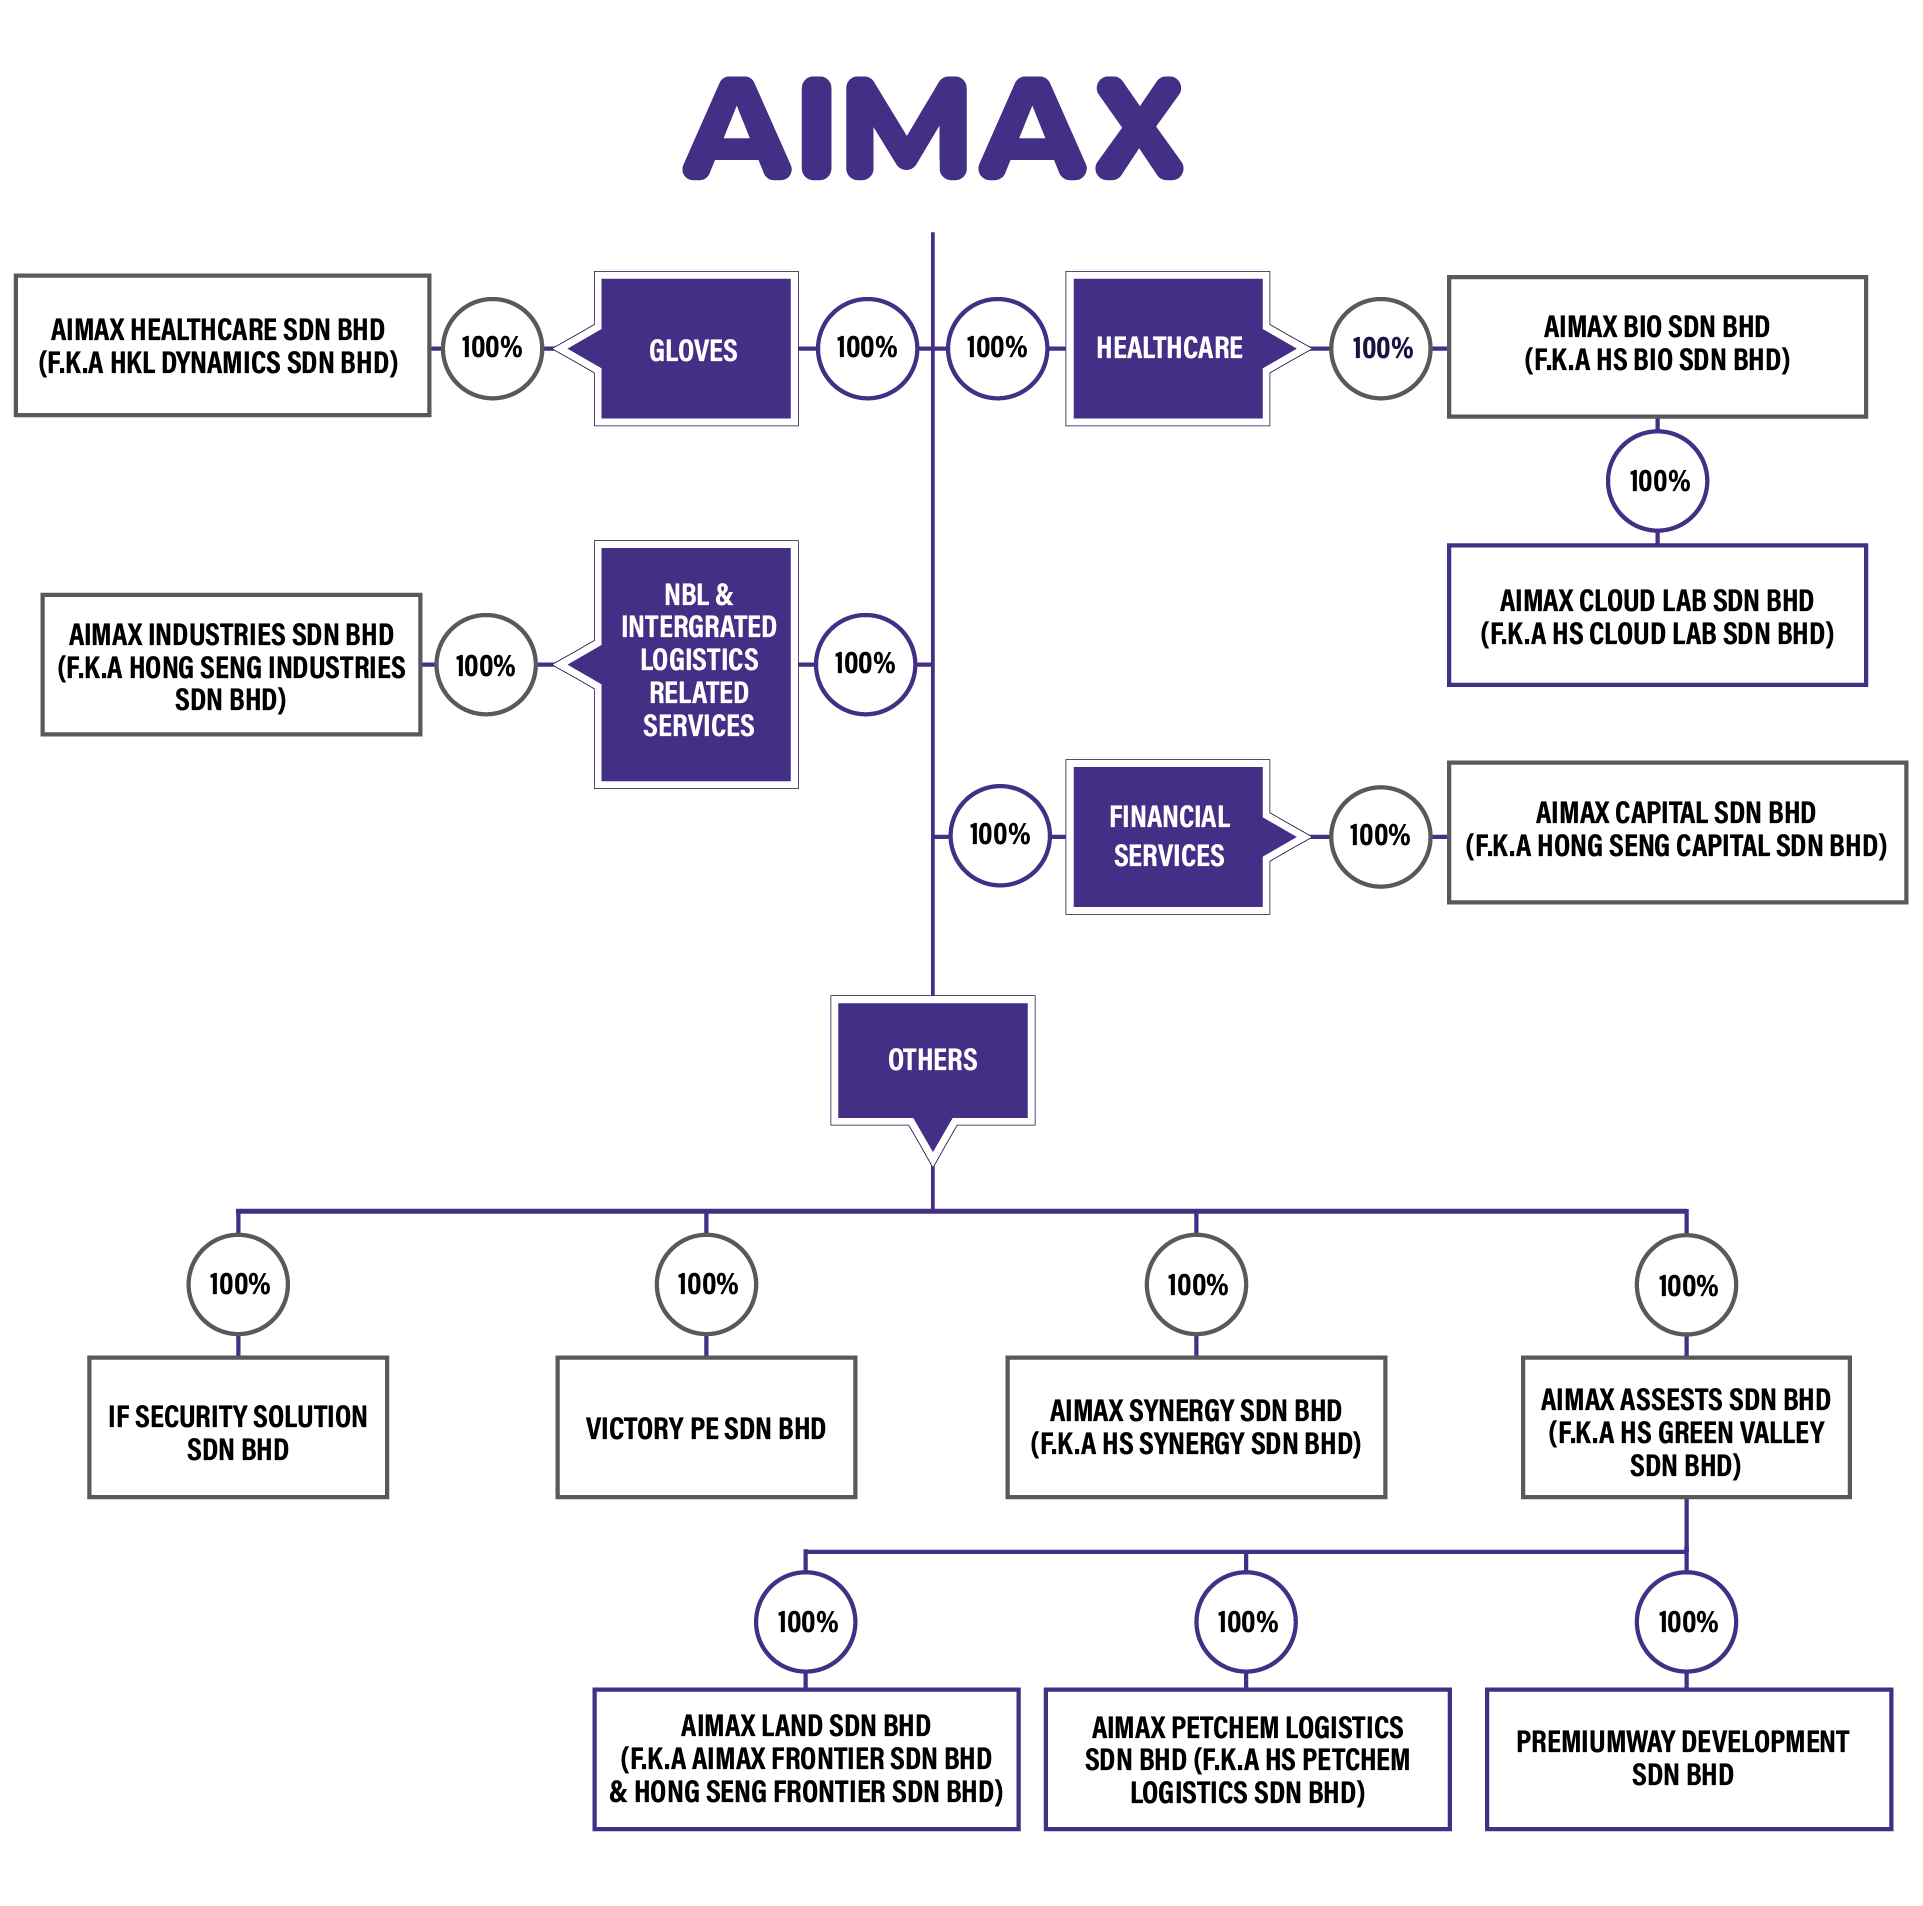
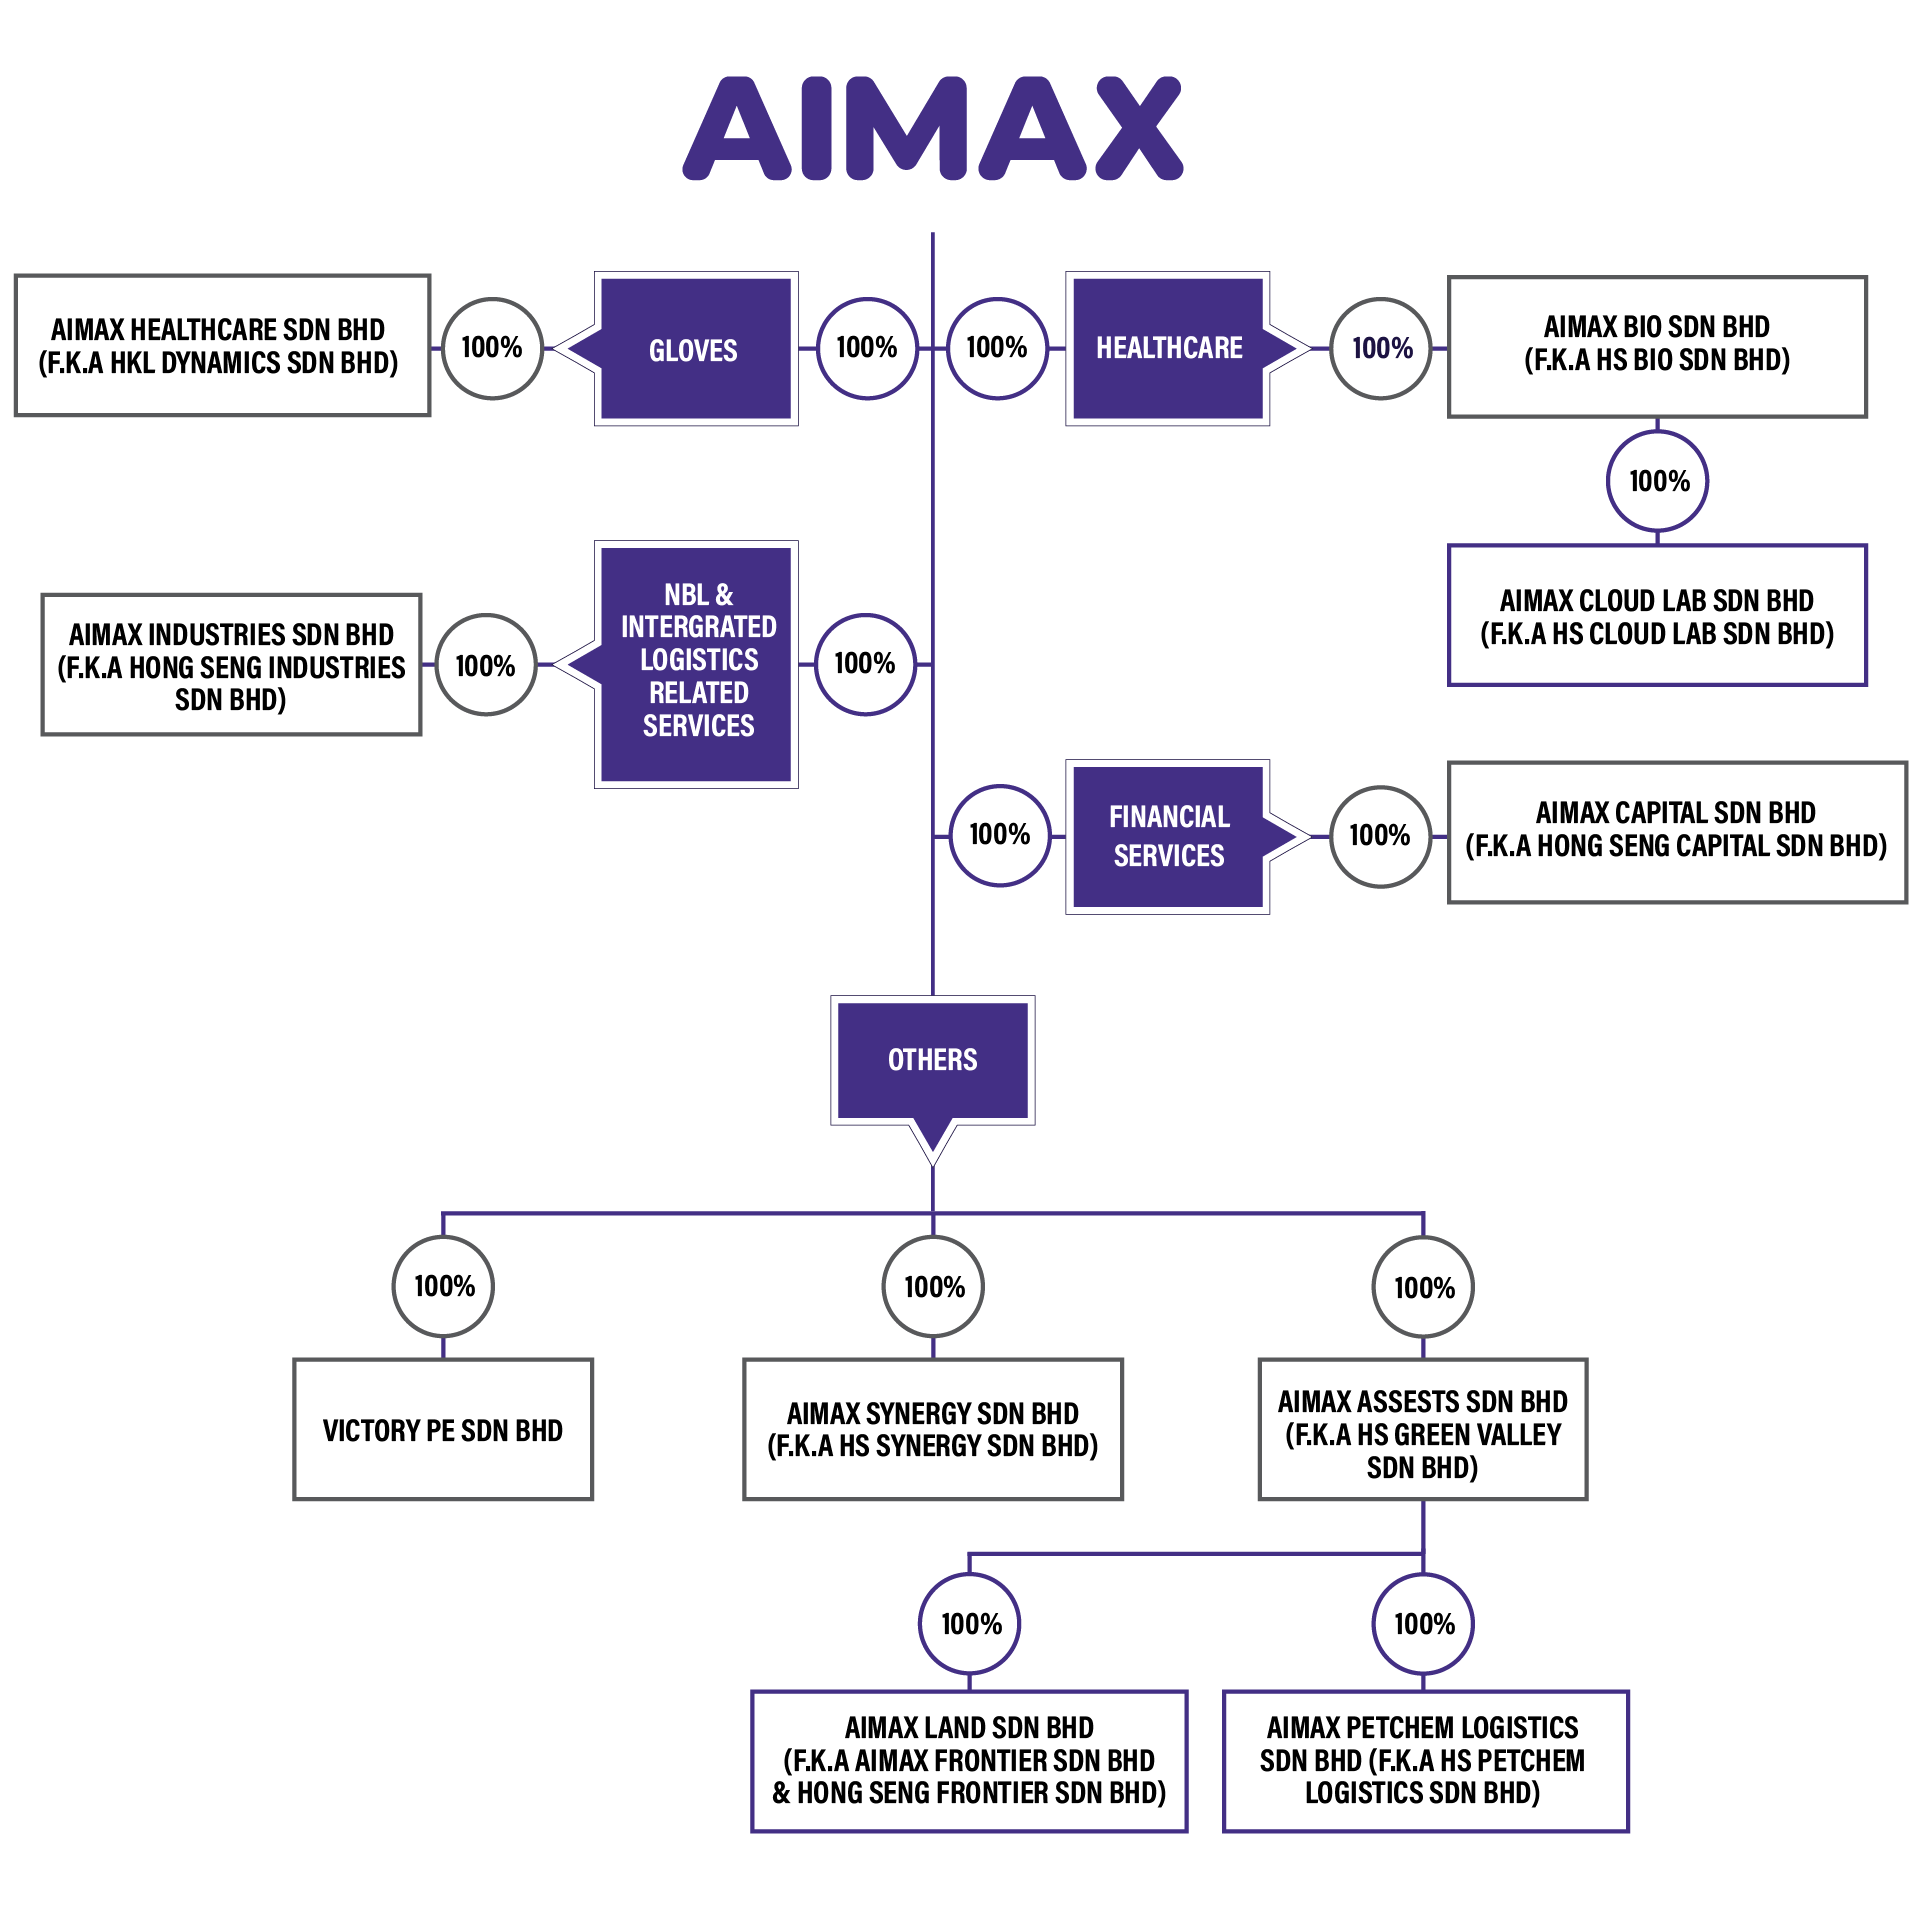
change corporate structure

Changed region(s): [[0.0312, 0.6191, 0.9672, 0.9596]]

diff --git a/src/app/home/home.component.ts b/src/app/home/home.component.ts
@@ -10,7 +10,7 @@ import { RouterLink } from '@angular/router';
 })
 export class HomeComponent {
   divisions = [
-    { slug: 'gloves', title: 'Gloves & NBL Manufacturing', tagline: 'Becoming one of the notable glove makers in the nation', img: 'assets/images/HOMEPAGE-01.png', link: '/businesses/manufacturing' },
+    { slug: 'gloves', title: 'Gloves Manufacturing', tagline: 'Becoming one of the notable glove makers in the nation', img: 'assets/images/HOMEPAGE-01.png', link: '/businesses/manufacturing' },
     { slug: 'healthcare', title: 'Healthcare', tagline: 'End-to-end integrated healthcare supply chain specialist', img: 'assets/images/HOMEPAGE-02.png', link: '/businesses/healthcare' },
     {slug:'finance',title:'Financial Services',tagline:'Delivering Capable & Reliable Business Financing Solutions',img:'assets/images/HOMEPAGE-03.png',link:'/businesses/financial-services'}
   ];
